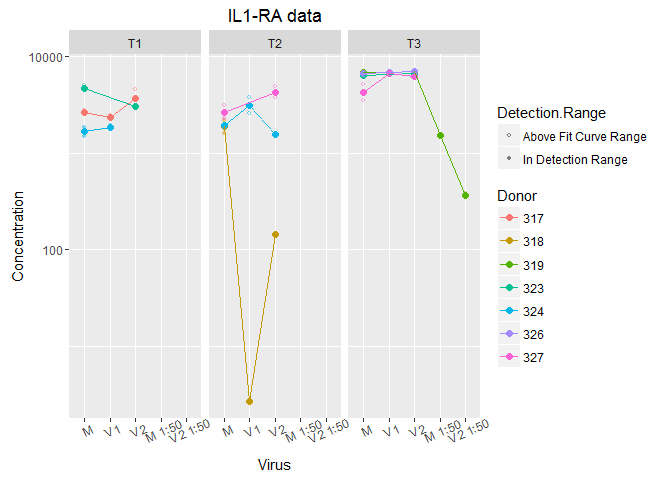
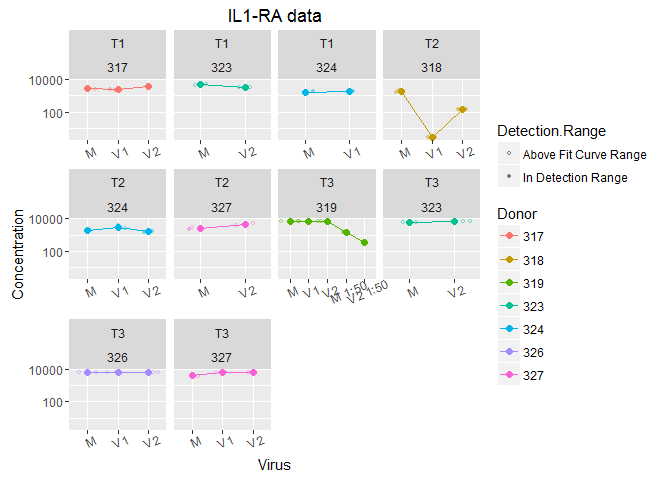
formatted the individual plots differently, added a plot with all analytes

diff --git a/30June16_plate_3_explant_sup.md b/30June16_plate_3_explant_sup.md
@@ -85,7 +85,7 @@ Of the 48 standards that we measured, 37 are in the detection range. The followi
 </tbody>
 </table>
 
-Here is a plot of the % recovery (extrapolated concentration/ known concentration x 100) for the standards that were in the detection range, with lines at the "good recovery" limits of 80 and 120% recovery.
+Here is a plot of the % recovery (extrapolated concentration/ known concentration x 100) for the standards that were either within or above the detection range, with lines at the "good recovery" limits of 80 and 120% recovery.
 
 ![](30June16_plate_3_explant_sup_files/figure-markdown_github/percent%20recovery-1.png)
 
@@ -118,16 +118,15 @@ The R-squared values for goodness-of-fit were good for all assays:
 </tbody>
 </table>
 
+Caveats
+-------
+
+Some data points were above the range of the curve fit. The MSD software can extrapolate values for these if the curve is linear at the top. Values cannot be extrapolated when the data was below the fit curve range, so those are not shown in the following plots.
+
+![](30June16_plate_3_explant_sup_files/figure-markdown_github/everything-1.png)
+
 ![](30June16_plate_3_explant_sup_files/figure-markdown_github/MIG-1.png)
-
-Another way of looking at the data
-
-![](30June16_plate_3_explant_sup_files/figure-markdown_github/MIG%20alternate-1.png)
 
 ![](30June16_plate_3_explant_sup_files/figure-markdown_github/RANTES-1.png)
 
-![](30June16_plate_3_explant_sup_files/figure-markdown_github/RANTES%20alternate-1.png)
-
 ![](30June16_plate_3_explant_sup_files/figure-markdown_github/IL1-ra-1.png)
-
-![](30June16_plate_3_explant_sup_files/figure-markdown_github/IL1RA%20alternate-1.png)
